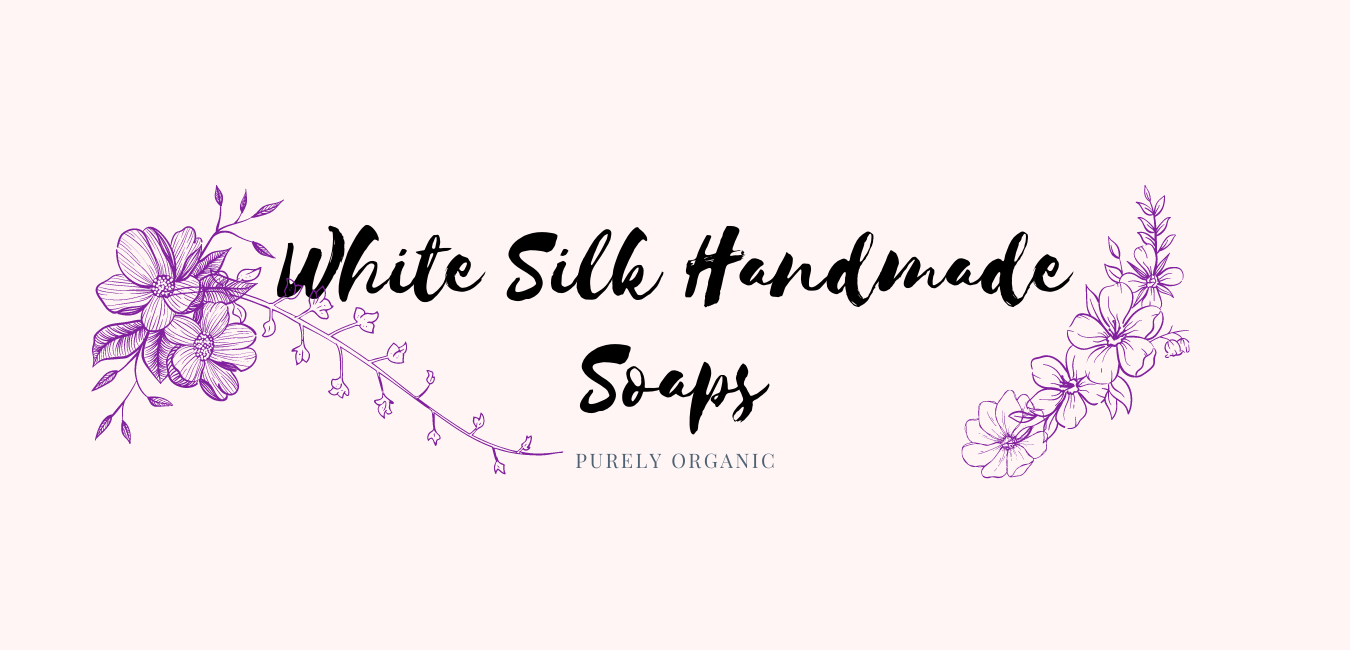
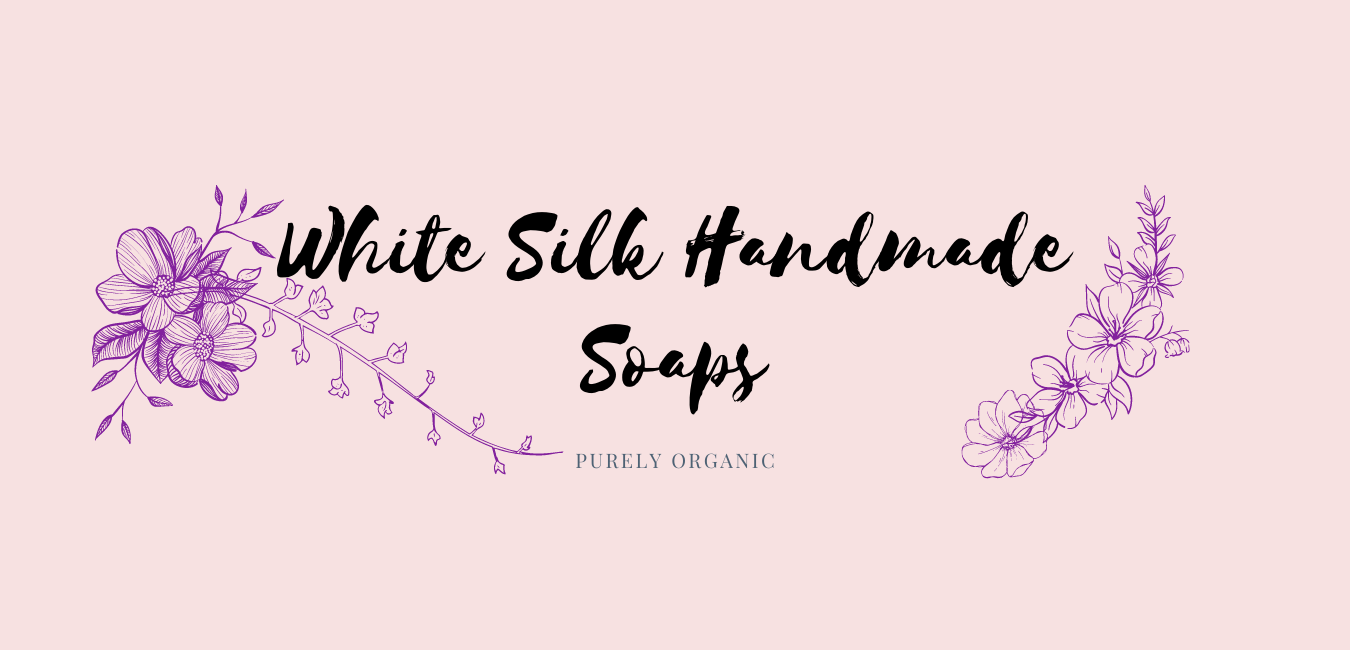
Process

Changed region(s): [[0.1867, 0.3077, 0.8089, 0.4923], [0.4044, 0.4923, 0.5911, 0.6769]]

diff --git a/index.html b/index.html
@@ -20,18 +20,28 @@
 		<h2>Our Organic Products</h2>
 		<ul>
 			<li>Almond Soap</li>
+			<br>
 			<li>Charcoal with Tea Tree Oil Soap</li>
+			<br>
 			<li>Goat Milk with Neem Soap</li>
+			<br>
 			<li>Jathikai Soap</li>
+			<br>
 			<li>Kuppaimeni Soap(Special for skin issues)</li>
+			<br>
 			<li>Nalagumavu Soap(Especially for kids)</li>
+
 		</ul>
 		<h3>Bath Salts and Shampoos are also available</h3>
 		<ul>
 			<li>Neem with Turmeric</li>
+			<br>
 			<li>Potato Soap</li>
+			<br>
 			<li>Red Wine Soap</li>
+			<br>
 			<li>Shea Butter Soap</li>
+			<br>
 			<li>Vetiveru Soap</li>
 		</ul>
 		<!-- Footer elements -->

diff --git a/CSS/soap.css b/CSS/soap.css
@@ -1,22 +1,28 @@
 body{
 	margin: 0;
+	background-color: #FFF5F5; 
 	
 }
 header{
-	background-color: #FFF5F5;
+	background-color: #F7E1E1;
 	text-align: center;
 }
 
 h2{
 	font-family:'Niconne', cursive;
 	font-size: 50px ;
+	margin: 0 auto;
 }
 main{
 	
 	font-size: 30px;
+	margin: 0 auto;
+	padding-left: 20px;
+
 }
 h3{
 	font-family:'Niconne', cursive;
 	font-size: 40px;
-	
+	margin: 0 auto;
+
 }
